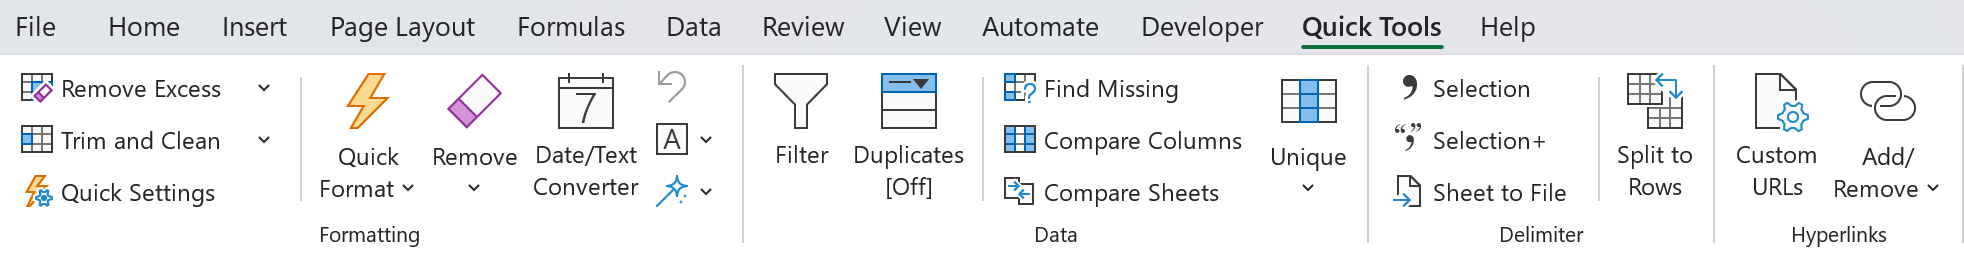
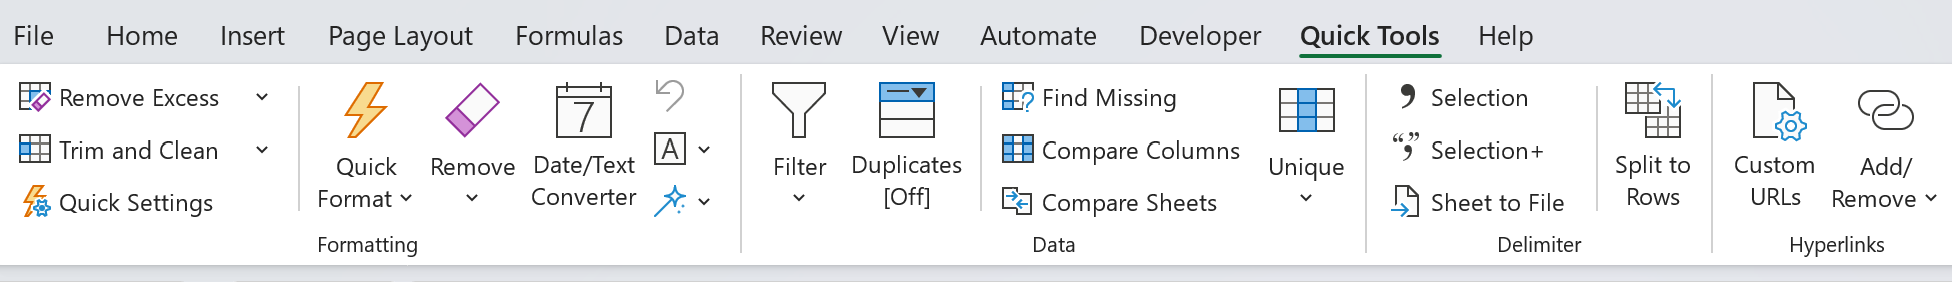
Added new filter options. Clear all, filter by active cell and exclude by active cell.

diff --git a/XLQuickTools/Ribbon1.Designer.cs b/XLQuickTools/Ribbon1.Designer.cs
@@ -36,6 +36,12 @@
         {
             this.XLQuickTools_Tab = this.Factory.CreateRibbonTab();
             this.Group_Formatting = this.Factory.CreateRibbonGroup();
+            this.Separator_Formatting = this.Factory.CreateRibbonSeparator();
+            this.Group_Data = this.Factory.CreateRibbonGroup();
+            this.Separator_Data = this.Factory.CreateRibbonSeparator();
+            this.Group_Delimiter = this.Factory.CreateRibbonGroup();
+            this.Separator_Delimiter = this.Factory.CreateRibbonSeparator();
+            this.Group_Hyperlinks = this.Factory.CreateRibbonGroup();
             this.BtnRemoveExcess = this.Factory.CreateRibbonSplitButton();
             this.BtnRemoveExcessWS = this.Factory.CreateRibbonButton();
             this.BtnRemoveExcessWB = this.Factory.CreateRibbonButton();
@@ -45,7 +51,6 @@
             this.BtnTrimCleanWorkbook = this.Factory.CreateRibbonButton();
             this.BtnTrimCleanSettings = this.Factory.CreateRibbonButton();
             this.BtnQuickSettings = this.Factory.CreateRibbonButton();
-            this.Separator_Formatting = this.Factory.CreateRibbonSeparator();
             this.BtnQuickFormat = this.Factory.CreateRibbonSplitButton();
             this.BtnQuickFormatSub = this.Factory.CreateRibbonButton();
             this.BtnQuickFormatAll = this.Factory.CreateRibbonButton();
@@ -86,10 +91,9 @@
             this.separator6 = this.Factory.CreateRibbonSeparator();
             this.BtnFileList = this.Factory.CreateRibbonButton();
             this.BtnDisplayLength = this.Factory.CreateRibbonButton();
-            this.Group_Data = this.Factory.CreateRibbonGroup();
-            this.BtnFilter = this.Factory.CreateRibbonButton();
+            this.BtnFilter = this.Factory.CreateRibbonSplitButton();
+            this.BtnActiveCellFilter = this.Factory.CreateRibbonButton();
             this.BtnDuplicates = this.Factory.CreateRibbonButton();
-            this.Separator_Data = this.Factory.CreateRibbonSeparator();
             this.BtnMissing = this.Factory.CreateRibbonButton();
             this.BtnColumnCheck = this.Factory.CreateRibbonButton();
             this.BtnCompare = this.Factory.CreateRibbonButton();
@@ -97,19 +101,18 @@
             this.BtnUniqueClipboard = this.Factory.CreateRibbonButton();
             this.BtnCopyToSheets = this.Factory.CreateRibbonButton();
             this.BtnColumnInfo = this.Factory.CreateRibbonButton();
-            this.Group_Delimiter = this.Factory.CreateRibbonGroup();
             this.BtnCommaSelection = this.Factory.CreateRibbonButton();
             this.BtnDelimSelection = this.Factory.CreateRibbonButton();
             this.BtnSheetToFile = this.Factory.CreateRibbonButton();
-            this.Separator_Delimiter = this.Factory.CreateRibbonSeparator();
             this.BtnSplitToRows = this.Factory.CreateRibbonButton();
-            this.Group_Hyperlinks = this.Factory.CreateRibbonGroup();
             this.BtnHyperlinkSettings = this.Factory.CreateRibbonButton();
             this.BtnHyperlinks = this.Factory.CreateRibbonSplitButton();
             this.BtnAddHyperlinks = this.Factory.CreateRibbonButton();
             this.BtnAddHyperlinksCell = this.Factory.CreateRibbonButton();
             this.BtnRemoveHyperlinks = this.Factory.CreateRibbonButton();
             this.BtnAutoCountIF = this.Factory.CreateRibbonButton();
+            this.BtnClearFilters = this.Factory.CreateRibbonButton();
+            this.BtnExcludeFilter = this.Factory.CreateRibbonButton();
             this.XLQuickTools_Tab.SuspendLayout();
             this.Group_Formatting.SuspendLayout();
             this.Group_Data.SuspendLayout();
@@ -141,6 +144,47 @@
             this.Group_Formatting.Items.Add(this.AdditionalMenu);
             this.Group_Formatting.Label = "Formatting";
             this.Group_Formatting.Name = "Group_Formatting";
+            // 
+            // Separator_Formatting
+            // 
+            this.Separator_Formatting.Name = "Separator_Formatting";
+            // 
+            // Group_Data
+            // 
+            this.Group_Data.Items.Add(this.BtnFilter);
+            this.Group_Data.Items.Add(this.BtnDuplicates);
+            this.Group_Data.Items.Add(this.Separator_Data);
+            this.Group_Data.Items.Add(this.BtnMissing);
+            this.Group_Data.Items.Add(this.BtnColumnCheck);
+            this.Group_Data.Items.Add(this.BtnCompare);
+            this.Group_Data.Items.Add(this.SBtnUniqueClipboard);
+            this.Group_Data.Label = "Data";
+            this.Group_Data.Name = "Group_Data";
+            // 
+            // Separator_Data
+            // 
+            this.Separator_Data.Name = "Separator_Data";
+            // 
+            // Group_Delimiter
+            // 
+            this.Group_Delimiter.Items.Add(this.BtnCommaSelection);
+            this.Group_Delimiter.Items.Add(this.BtnDelimSelection);
+            this.Group_Delimiter.Items.Add(this.BtnSheetToFile);
+            this.Group_Delimiter.Items.Add(this.Separator_Delimiter);
+            this.Group_Delimiter.Items.Add(this.BtnSplitToRows);
+            this.Group_Delimiter.Label = "Delimiter";
+            this.Group_Delimiter.Name = "Group_Delimiter";
+            // 
+            // Separator_Delimiter
+            // 
+            this.Separator_Delimiter.Name = "Separator_Delimiter";
+            // 
+            // Group_Hyperlinks
+            // 
+            this.Group_Hyperlinks.Items.Add(this.BtnHyperlinkSettings);
+            this.Group_Hyperlinks.Items.Add(this.BtnHyperlinks);
+            this.Group_Hyperlinks.Label = "Hyperlinks";
+            this.Group_Hyperlinks.Name = "Group_Hyperlinks";
             // 
             // BtnRemoveExcess
             // 
@@ -228,10 +272,6 @@
             this.BtnQuickSettings.SuperTip = "Quick Format Settings\n\nSettings you want applied when using the \"Quick Format\" bu" +
     "tton.";
             this.BtnQuickSettings.Click += new Microsoft.Office.Tools.Ribbon.RibbonControlEventHandler(this.BtnQuickSettings_Click);
-            // 
-            // Separator_Formatting
-            // 
-            this.Separator_Formatting.Name = "Separator_Formatting";
             // 
             // BtnQuickFormat
             // 
@@ -600,27 +640,26 @@
     "Off].";
             this.BtnDisplayLength.Click += new Microsoft.Office.Tools.Ribbon.RibbonControlEventHandler(this.BtnDisplayLength_Click);
             // 
-            // Group_Data
-            // 
-            this.Group_Data.Items.Add(this.BtnFilter);
-            this.Group_Data.Items.Add(this.BtnDuplicates);
-            this.Group_Data.Items.Add(this.Separator_Data);
-            this.Group_Data.Items.Add(this.BtnMissing);
-            this.Group_Data.Items.Add(this.BtnColumnCheck);
-            this.Group_Data.Items.Add(this.BtnCompare);
-            this.Group_Data.Items.Add(this.SBtnUniqueClipboard);
-            this.Group_Data.Label = "Data";
-            this.Group_Data.Name = "Group_Data";
-            // 
             // BtnFilter
             // 
             this.BtnFilter.ControlSize = Microsoft.Office.Core.RibbonControlSize.RibbonControlSizeLarge;
+            this.BtnFilter.Items.Add(this.BtnClearFilters);
+            this.BtnFilter.Items.Add(this.BtnActiveCellFilter);
+            this.BtnFilter.Items.Add(this.BtnExcludeFilter);
             this.BtnFilter.Label = "Filter";
             this.BtnFilter.Name = "BtnFilter";
             this.BtnFilter.OfficeImageId = "DataFilter";
-            this.BtnFilter.ShowImage = true;
             this.BtnFilter.SuperTip = "Filter\n\nToggle filtering on/off";
             this.BtnFilter.Click += new Microsoft.Office.Tools.Ribbon.RibbonControlEventHandler(this.BtnFilter_Click);
+            // 
+            // BtnActiveCellFilter
+            // 
+            this.BtnActiveCellFilter.Label = "&Active Cell";
+            this.BtnActiveCellFilter.Name = "BtnActiveCellFilter";
+            this.BtnActiveCellFilter.OfficeImageId = "FilterBySelection";
+            this.BtnActiveCellFilter.ShowImage = true;
+            this.BtnActiveCellFilter.SuperTip = "Filter column by active cell.";
+            this.BtnActiveCellFilter.Click += new Microsoft.Office.Tools.Ribbon.RibbonControlEventHandler(this.btnActiveCellFilter_Click);
             // 
             // BtnDuplicates
             // 
@@ -632,10 +671,6 @@
             this.BtnDuplicates.SuperTip = "Check for Duplicates\n\nCheck if a selected column contains duplicates. Toggle on/o" +
     "ff a count column based on the selected column.";
             this.BtnDuplicates.Click += new Microsoft.Office.Tools.Ribbon.RibbonControlEventHandler(this.BtnDuplicates_Click);
-            // 
-            // Separator_Data
-            // 
-            this.Separator_Data.Name = "Separator_Data";
             // 
             // BtnMissing
             // 
@@ -708,16 +743,6 @@
     "nks, non-blanks, and total row count.";
             this.BtnColumnInfo.Click += new Microsoft.Office.Tools.Ribbon.RibbonControlEventHandler(this.BtnColumnInfo_Click);
             // 
-            // Group_Delimiter
-            // 
-            this.Group_Delimiter.Items.Add(this.BtnCommaSelection);
-            this.Group_Delimiter.Items.Add(this.BtnDelimSelection);
-            this.Group_Delimiter.Items.Add(this.BtnSheetToFile);
-            this.Group_Delimiter.Items.Add(this.Separator_Delimiter);
-            this.Group_Delimiter.Items.Add(this.BtnSplitToRows);
-            this.Group_Delimiter.Label = "Delimiter";
-            this.Group_Delimiter.Name = "Group_Delimiter";
-            // 
             // BtnCommaSelection
             // 
             this.BtnCommaSelection.Label = "Selection";
@@ -746,10 +771,6 @@
             this.BtnSheetToFile.SuperTip = "Worksheet to File\n\nCreate a delimited file using the current active worksheet.";
             this.BtnSheetToFile.Click += new Microsoft.Office.Tools.Ribbon.RibbonControlEventHandler(this.BtnSheetToFile_Click);
             // 
-            // Separator_Delimiter
-            // 
-            this.Separator_Delimiter.Name = "Separator_Delimiter";
-            // 
             // BtnSplitToRows
             // 
             this.BtnSplitToRows.ControlSize = Microsoft.Office.Core.RibbonControlSize.RibbonControlSizeLarge;
@@ -759,13 +780,6 @@
             this.BtnSplitToRows.ShowImage = true;
             this.BtnSplitToRows.SuperTip = "Split Columns to Rows\n\nSplit delimited column(s) to rows.";
             this.BtnSplitToRows.Click += new Microsoft.Office.Tools.Ribbon.RibbonControlEventHandler(this.BtnSplitToRows_Click);
-            // 
-            // Group_Hyperlinks
-            // 
-            this.Group_Hyperlinks.Items.Add(this.BtnHyperlinkSettings);
-            this.Group_Hyperlinks.Items.Add(this.BtnHyperlinks);
-            this.Group_Hyperlinks.Label = "Hyperlinks";
-            this.Group_Hyperlinks.Name = "Group_Hyperlinks";
             // 
             // BtnHyperlinkSettings
             // 
@@ -822,6 +836,24 @@
             this.BtnAutoCountIF.Name = "BtnAutoCountIF";
             this.BtnAutoCountIF.ShowImage = true;
             // 
+            // BtnClearFilters
+            // 
+            this.BtnClearFilters.Label = "&Clear All";
+            this.BtnClearFilters.Name = "BtnClearFilters";
+            this.BtnClearFilters.OfficeImageId = "FilterClear";
+            this.BtnClearFilters.ShowImage = true;
+            this.BtnClearFilters.SuperTip = "Clear all filters.";
+            this.BtnClearFilters.Click += new Microsoft.Office.Tools.Ribbon.RibbonControlEventHandler(this.BtnClearFilters_Click);
+            // 
+            // BtnExcludeFilter
+            // 
+            this.BtnExcludeFilter.Label = "&Exclude Cell";
+            this.BtnExcludeFilter.Name = "BtnExcludeFilter";
+            this.BtnExcludeFilter.OfficeImageId = "ApplyFilter";
+            this.BtnExcludeFilter.ShowImage = true;
+            this.BtnExcludeFilter.SuperTip = "Hide rows matching active cell.";
+            this.BtnExcludeFilter.Click += new Microsoft.Office.Tools.Ribbon.RibbonControlEventHandler(this.BtnExcludeFilter_Click);
+            // 
             // XLQuickTools
             // 
             this.Name = "XLQuickTools";
@@ -863,7 +895,7 @@
         internal Microsoft.Office.Tools.Ribbon.RibbonButton BtnCopyToSheets;
         internal Microsoft.Office.Tools.Ribbon.RibbonButton BtnDateText;
         internal Microsoft.Office.Tools.Ribbon.RibbonButton BtnUndo;
-        internal Microsoft.Office.Tools.Ribbon.RibbonButton BtnFilter;
+        internal Microsoft.Office.Tools.Ribbon.RibbonSplitButton BtnFilter;
         internal Microsoft.Office.Tools.Ribbon.RibbonSeparator Separator_Data;
         internal Microsoft.Office.Tools.Ribbon.RibbonButton BtnUppercase;
         internal Microsoft.Office.Tools.Ribbon.RibbonButton BtnLowercase;
@@ -919,6 +951,9 @@
         internal Microsoft.Office.Tools.Ribbon.RibbonButton BtnAddHyperlinksCell;
         internal Microsoft.Office.Tools.Ribbon.RibbonButton BtnAutoCountIF;
         internal Microsoft.Office.Tools.Ribbon.RibbonButton BtnColumnCheck;
+        internal Microsoft.Office.Tools.Ribbon.RibbonButton BtnActiveCellFilter;
+        internal Microsoft.Office.Tools.Ribbon.RibbonButton BtnClearFilters;
+        internal Microsoft.Office.Tools.Ribbon.RibbonButton BtnExcludeFilter;
     }
 
     partial class ThisRibbonCollection

diff --git a/XLQuickTools/QTFunctions.cs b/XLQuickTools/QTFunctions.cs
@@ -1599,5 +1599,109 @@ namespace XLQuickTools
                 rangeToUpdate.Value2 = processArray;
             }
         }
+
+        // Active Cell Filter
+        public static void ApplyActiveCellFilter(bool exclude = false)
+        {
+            Excel.Application excelApp = Globals.ThisAddIn.Application;
+            Excel.Workbook activeWorkbook = excelApp.ActiveWorkbook;
+            if (activeWorkbook == null) return;
+
+            Excel.Worksheet activeSheet = excelApp.ActiveSheet as Excel.Worksheet;
+            if (activeSheet == null) return;
+
+            Excel.Range activeCell = null;
+            Excel.Range filterRange = null;
+            Excel.AutoFilter existingFilter = null;
+
+            try
+            {
+                activeCell = excelApp.ActiveCell;
+                if (activeCell == null) return;
+
+                // Use the displayed text
+                string value = Convert.ToString(activeCell.Text);
+
+                // If the sheet already has an AutoFilter, filter within that range;
+                // otherwise use the current region around the active cell
+                if (activeSheet.AutoFilterMode)
+                {
+                    existingFilter = activeSheet.AutoFilter;
+                    filterRange = existingFilter.Range;
+                }
+                else
+                {
+                    filterRange = activeCell.CurrentRegion;
+
+                    // Nothing to filter: empty cell with no data around it
+                    if (excelApp.WorksheetFunction.CountA(filterRange) == 0)
+                    {
+                        return;
+                    }
+                }
+
+                // Field index relative to the first column of the filter range
+                int field = activeCell.Column - filterRange.Column + 1;
+                if (field < 1 || field > filterRange.Columns.Count) return;
+
+                // Blank cell: "=" matches blanks, "<>" matches non-blanks
+                object criteria;
+                if (exclude)
+                    criteria = string.IsNullOrEmpty(value) ? "<>" : (object)("<>" + value);
+                else
+                    criteria = string.IsNullOrEmpty(value) ? "=" : (object)value;
+
+                filterRange.AutoFilter(field, criteria, Excel.XlAutoFilterOperator.xlAnd);
+
+                // Keep focus on the original cell
+                activeCell.Select();
+            }
+            catch (System.Runtime.InteropServices.COMException)
+            {
+                // Any other AutoFilter refusal (protected sheet, merged cells, etc.)
+                MessageBox.Show("A filter can't be applied here. Check that the sheet isn't protected " +
+                                "and the cell is inside a data range.",
+                    "Filter by Active Cell", MessageBoxButtons.OK, MessageBoxIcon.Information);
+            }
+            catch (Exception ex)
+            {
+                QTUtils.ShowError(ex);
+            }
+            finally
+            {
+                QTUtils.CleanupResources(filterRange);
+                QTUtils.CleanupResources(activeCell);
+            }
+        }
+
+        // Clear All Filters (keeps the filter arrows)
+        public static void ClearAllFilters()
+        {
+            Excel.Application excelApp = Globals.ThisAddIn.Application;
+            Excel.Workbook activeWorkbook = excelApp.ActiveWorkbook;
+            if (activeWorkbook == null) return;
+
+            Excel.Worksheet activeSheet = excelApp.ActiveSheet as Excel.Worksheet;
+            if (activeSheet == null) return;
+
+            try
+            {
+                // Sheet-level AutoFilter (or Advanced Filter)
+                if (activeSheet.FilterMode)
+                {
+                    activeSheet.ShowAllData();
+                }
+            }
+            catch (System.Runtime.InteropServices.COMException)
+            {
+                MessageBox.Show("Filters couldn't be cleared. Check that the sheet isn't protected.",
+                    "Clear All Filters", MessageBoxButtons.OK, MessageBoxIcon.Information);
+            }
+            catch (Exception ex)
+            {
+                QTUtils.ShowError(ex);
+            }
+
+        }
     }
 }

diff --git a/XLQuickTools/Ribbon1.cs b/XLQuickTools/Ribbon1.cs
@@ -460,6 +460,24 @@ namespace XLQuickTools
         {
             QTFunctions.CountValuesInColumn();
         }
+
+        // Active Cell Filter
+        private void btnActiveCellFilter_Click(object sender, RibbonControlEventArgs e)
+        {
+            QTFunctions.ApplyActiveCellFilter();
+        }
+
+        // Exclude Active Cell Filter
+        private void BtnExcludeFilter_Click(object sender, RibbonControlEventArgs e)
+        {
+            QTFunctions.ApplyActiveCellFilter(true);
+        }
+
+        // Clear all filters
+        private void BtnClearFilters_Click(object sender, RibbonControlEventArgs e)
+        {
+            QTFunctions.ClearAllFilters();
+        }
     }
 }
 
